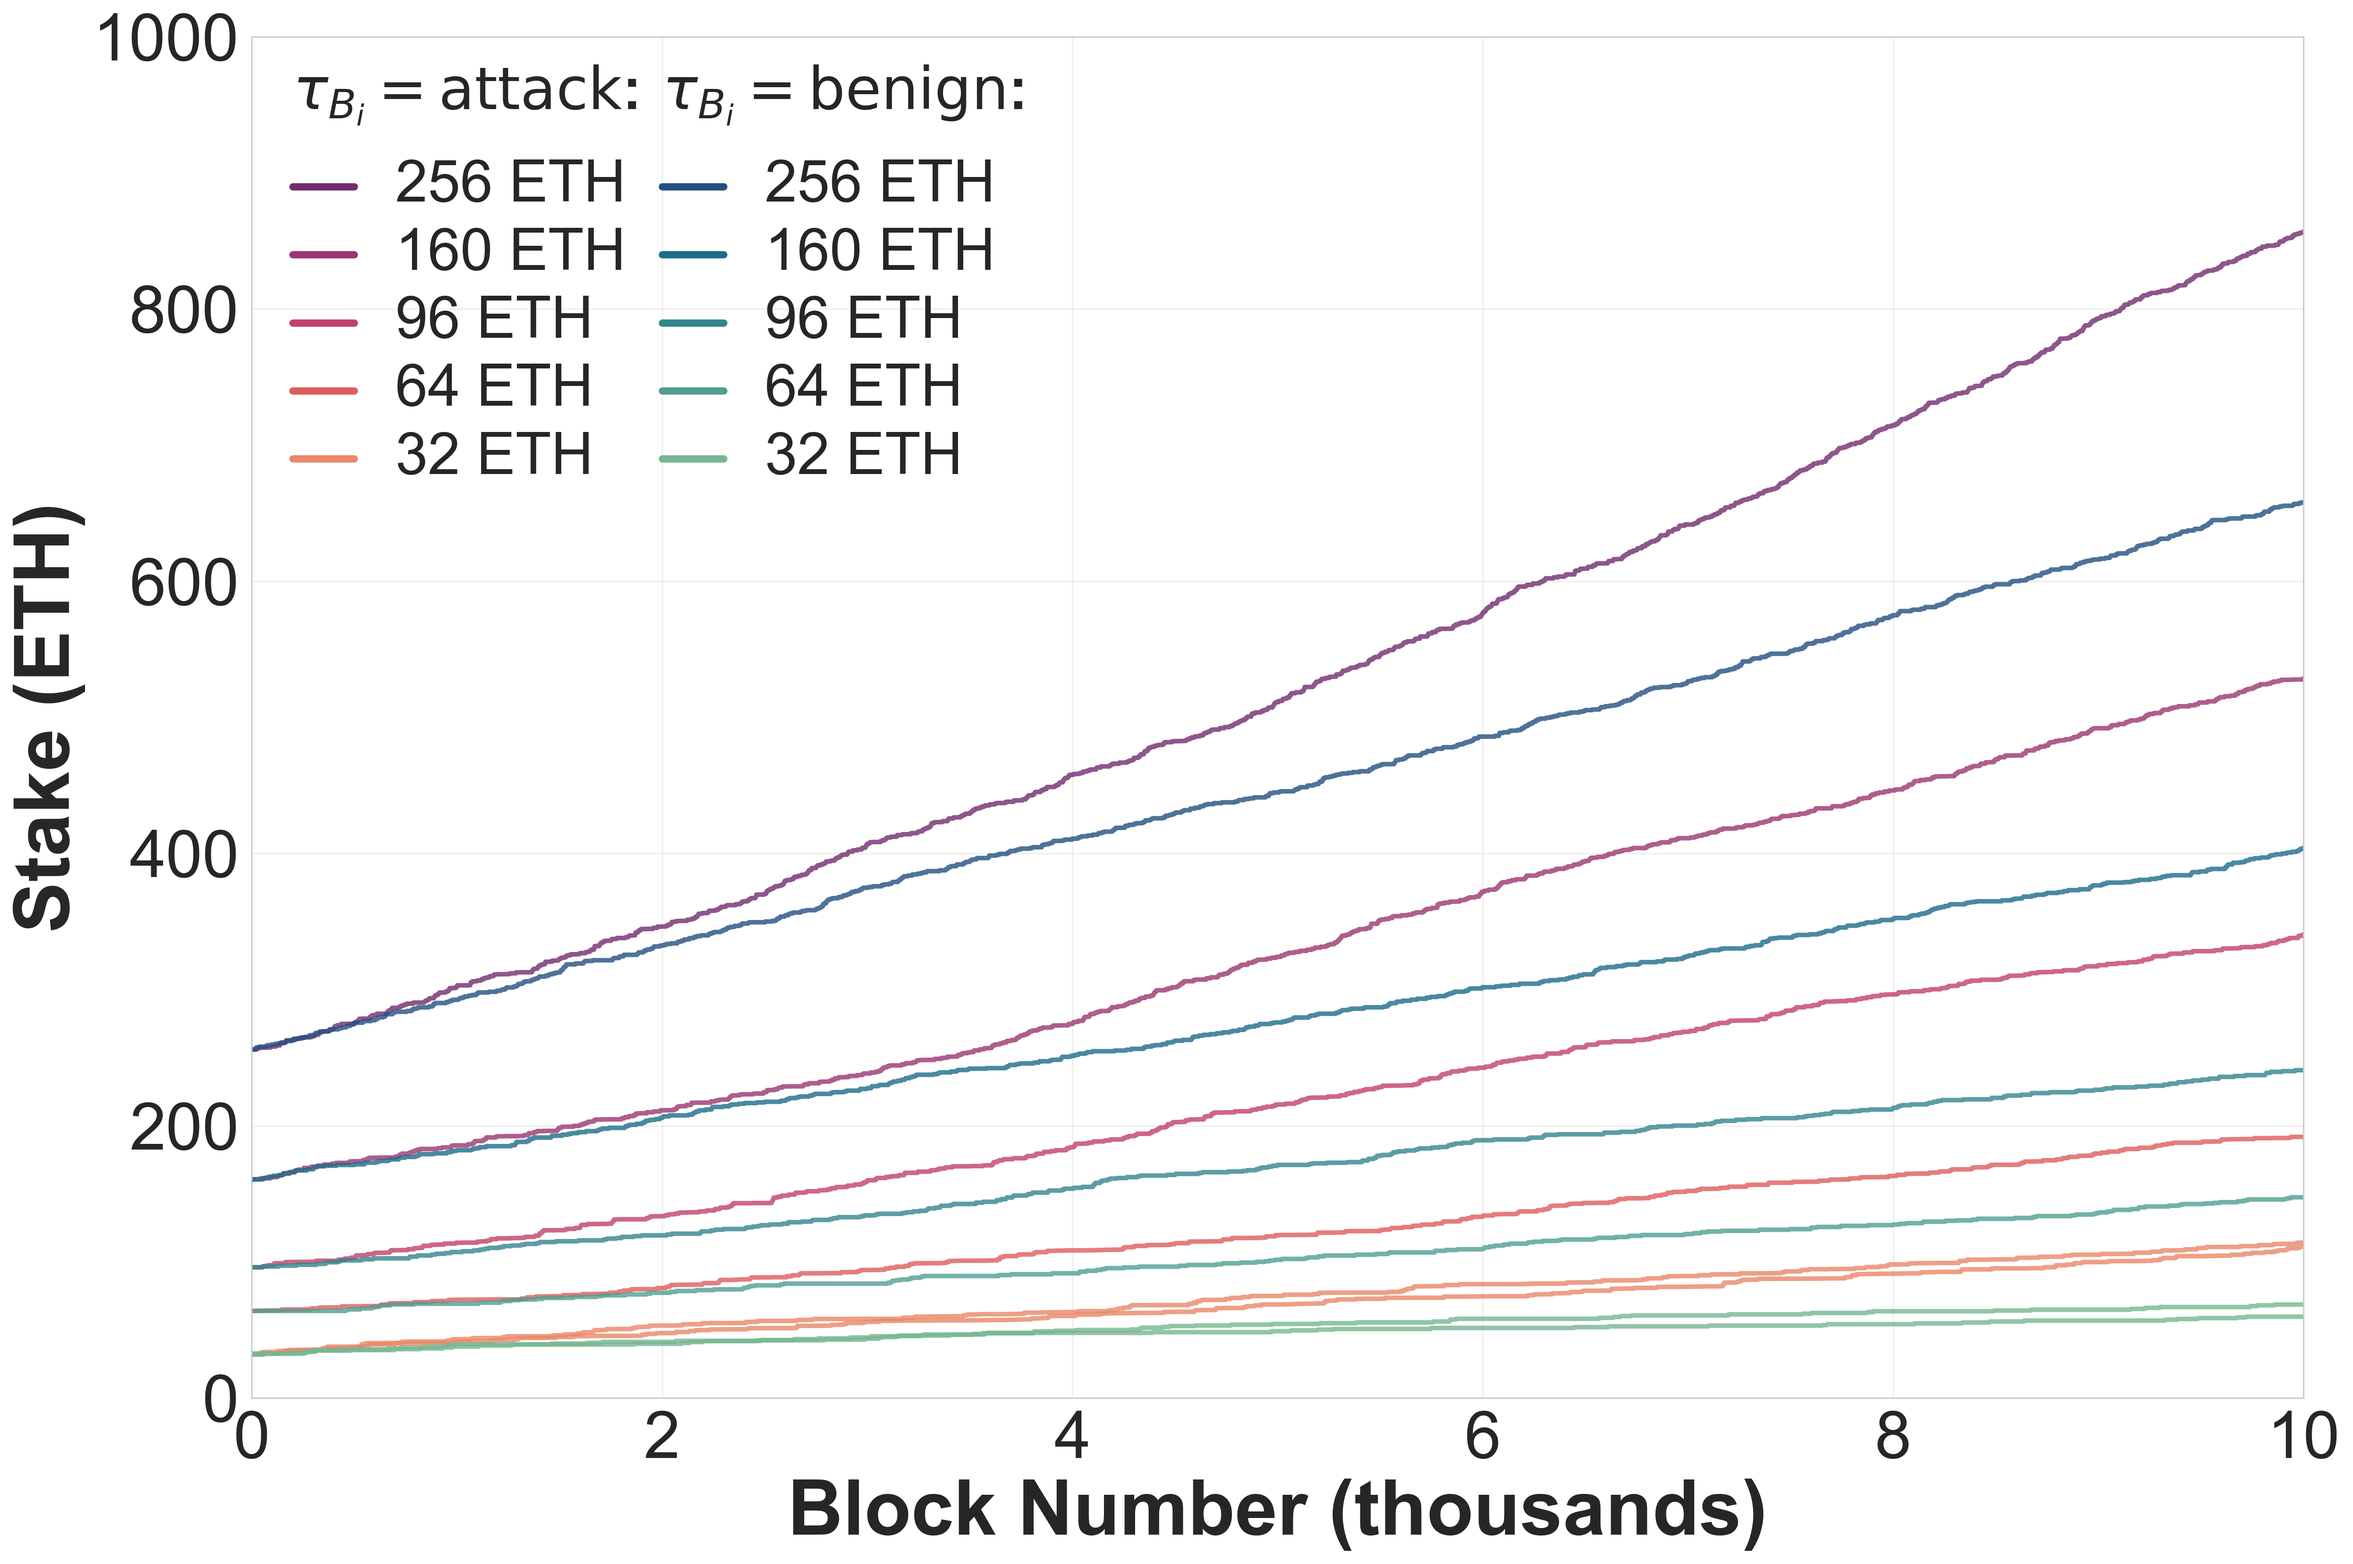
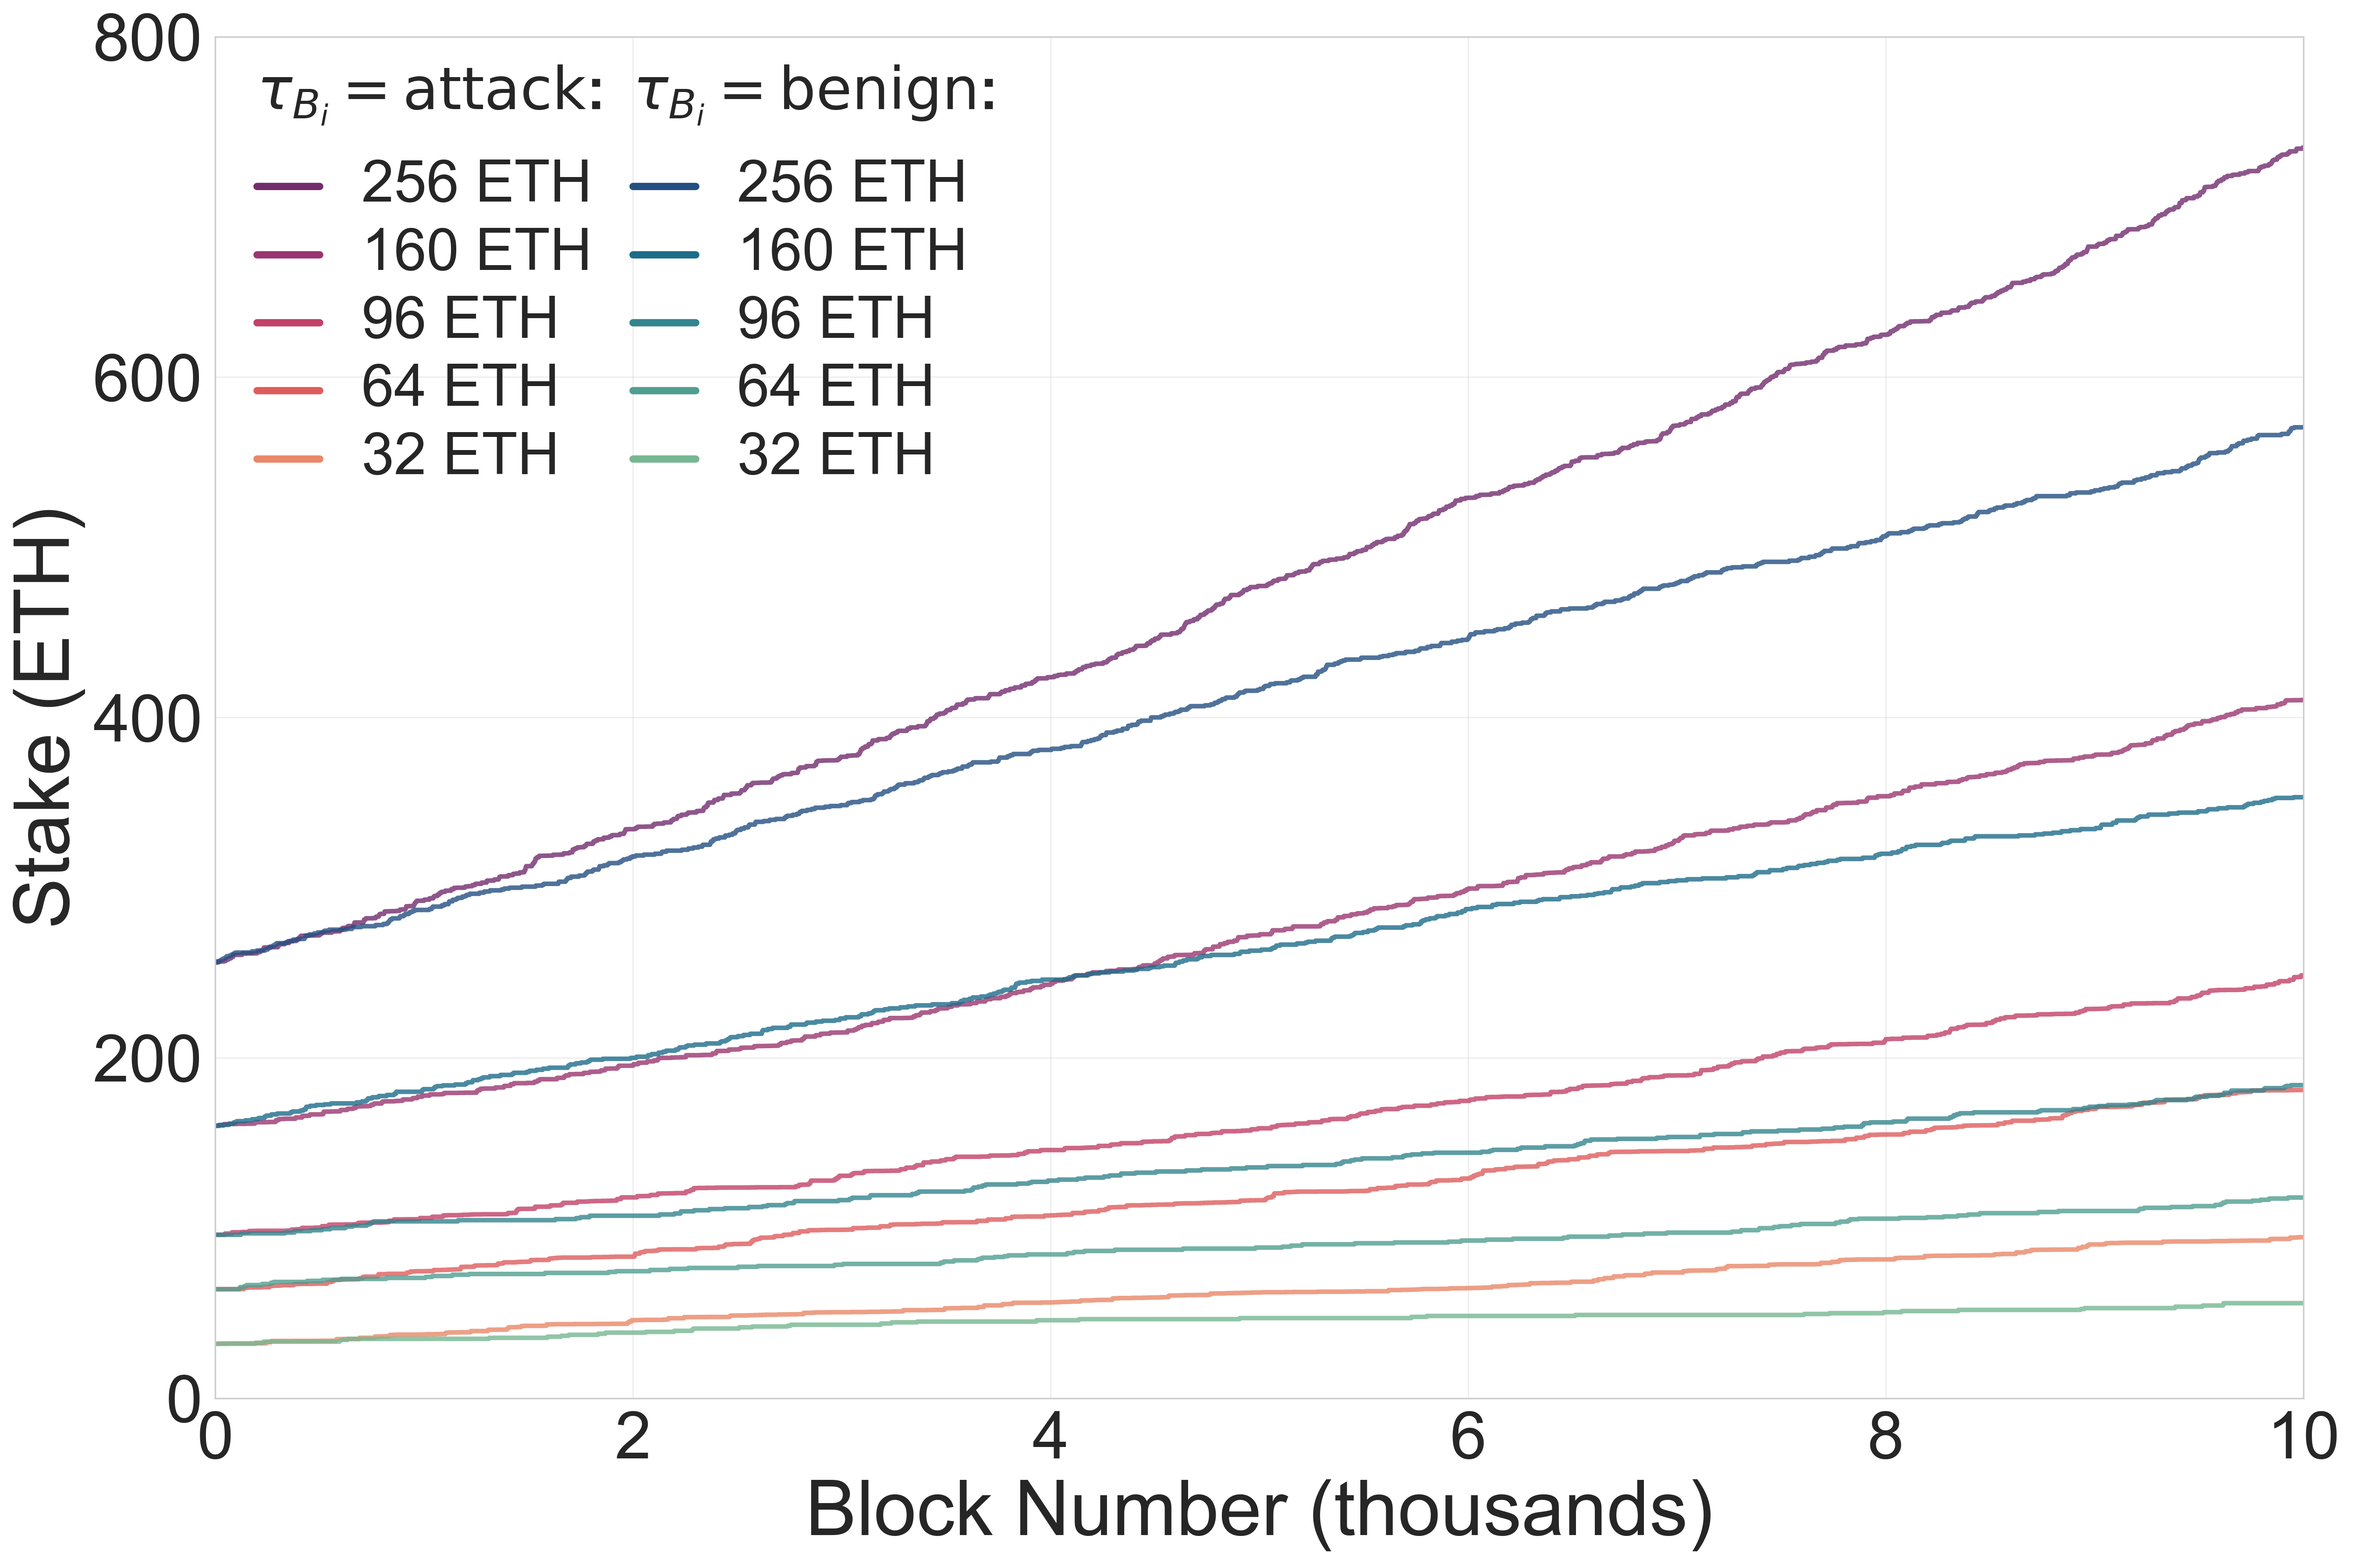
non bold title

diff --git a/plots/ss/plot_restaking.py b/plots/ss/plot_restaking.py
@@ -130,8 +130,8 @@ def plot_pos_validators():
                     label=label)
     
     # Customize the plot with much larger fonts
-    plt.xlabel('Block Number (thousands)', fontsize=42, fontweight='bold')
-    plt.ylabel('Stake (ETH)', fontsize=42, fontweight='bold')
+    plt.xlabel('Block Number (thousands)', fontsize=42)
+    plt.ylabel('Stake (ETH)', fontsize=42)
     
     # Set x-axis ticks in thousands
     x_ticks = [0, 2000, 4000, 6000, 8000, 10000]
@@ -357,16 +357,16 @@ def plot_pbs_builders():
                         label=label)
     
     # Customize the plot with much larger fonts
-    plt.xlabel('Block Number (thousands)', fontsize=42, fontweight='bold')
-    plt.ylabel('Stake (ETH)', fontsize=42, fontweight='bold')
+    plt.xlabel('Block Number (thousands)', fontsize=42)
+    plt.ylabel('Stake (ETH)', fontsize=42)
     
     # Set x-axis ticks in thousands
     x_ticks = [0, 2000, 4000, 6000, 8000, 10000]
     x_labels = ['0', '2', '4', '6', '8', '10']
     plt.xticks(x_ticks, x_labels, fontsize=36)
     
-    # Set y-axis to stop at 1000 ETH for PBS builders with 200 ETH intervals
-    y_max = 1000
+    # Set y-axis to stop at 800 ETH for PBS builders with 200 ETH intervals
+    y_max = 800
     
     # Set explicit y-axis ticks with consistent formatting (every 200 ETH)
     y_ticks = list(range(0, y_max + 1, 200))
@@ -512,8 +512,8 @@ def plot_pbs_proposers():
                         label=label)
     
     # Customize the plot with much larger fonts
-    plt.xlabel('Block Number (thousands)', fontsize=42, fontweight='bold')
-    plt.ylabel('Stake (ETH)', fontsize=42, fontweight='bold')
+    plt.xlabel('Block Number (thousands)', fontsize=42)
+    plt.ylabel('Stake (ETH)', fontsize=42)
     
     # Set x-axis ticks in thousands
     x_ticks = [0, 2000, 4000, 6000, 8000, 10000]
